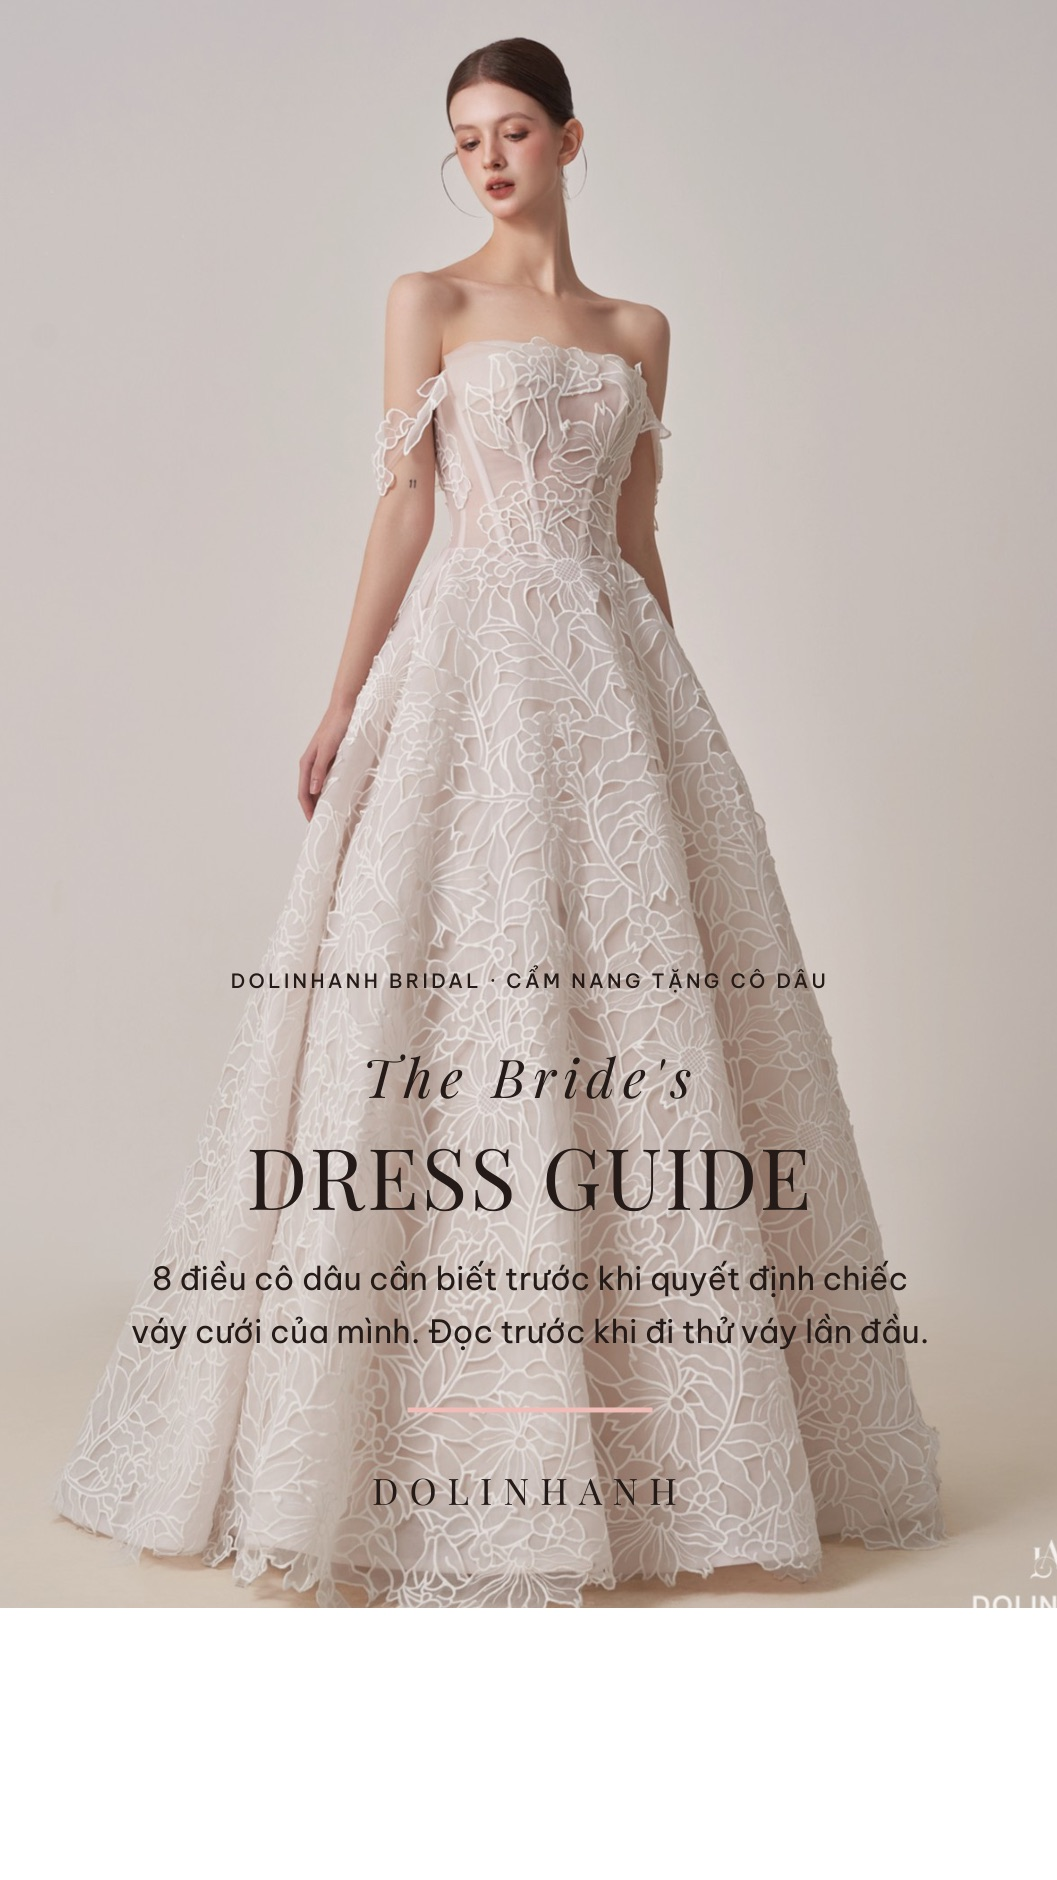
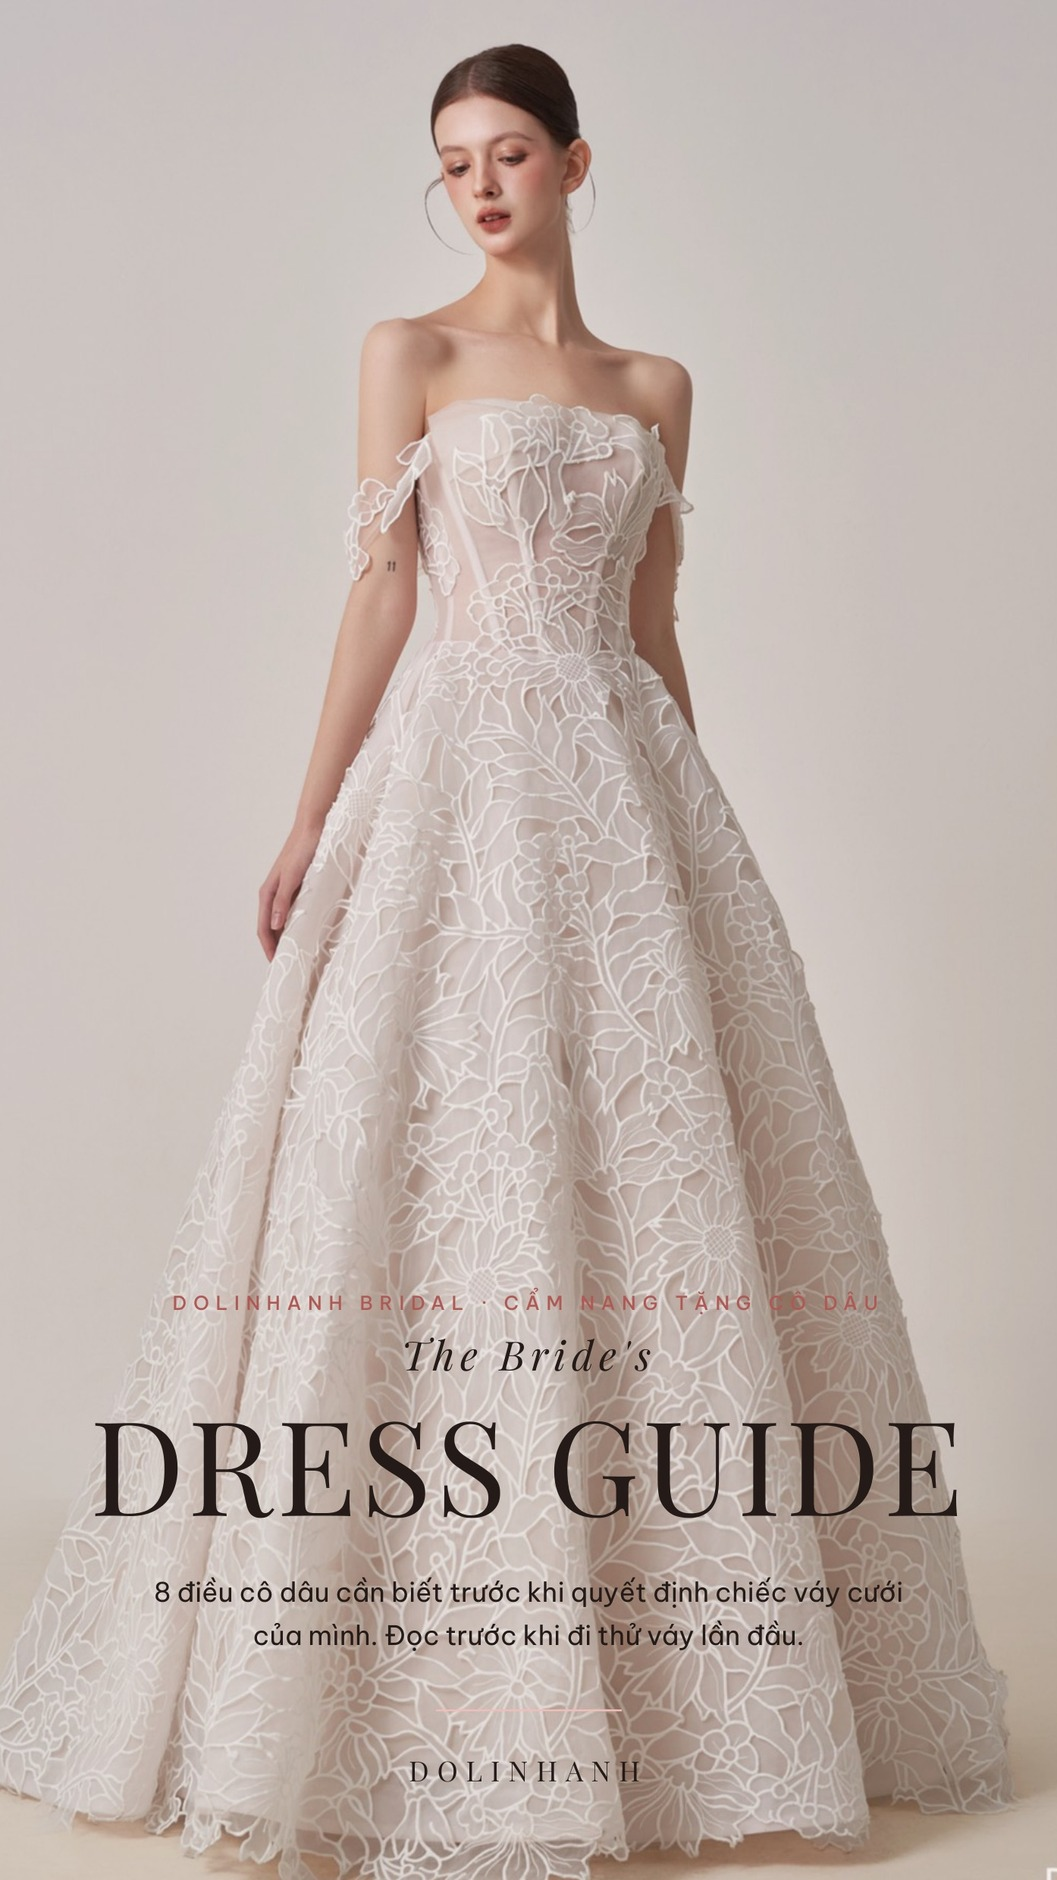
Fix mobile cover white gap and add clickable mục lục

Changed region(s): [[0.0, 0.0, 1.0, 1.0]]

diff --git a/dress-guide.html b/dress-guide.html
@@ -4,7 +4,7 @@
 <meta charset="utf-8">
 <meta name="viewport" content="width=device-width,initial-scale=1">
 <meta name="description" content="Cẩm nang tặng cô dâu: 7 điều cần biết trước khi chọn váy cưới — Dolinhanh Bridal.">
-<script>window.__ANH__=["dress-guide/t01.jpg?v=y291245", "dress-guide/t02.jpg?v=y291245", "dress-guide/t03.jpg?v=y291245", "dress-guide/t04.jpg?v=y291245", "dress-guide/t05.jpg?v=y291245", "dress-guide/t06.jpg?v=y291245", "dress-guide/t07.jpg?v=y291245", "dress-guide/t08.jpg?v=y291245", "dress-guide/t09.jpg?v=y291245", "dress-guide/t10.jpg?v=y291245", "dress-guide/t11.jpg?v=y291245", "dress-guide/t12.jpg?v=y291245", "dress-guide/t13.jpg?v=y291245", "dress-guide/t14.jpg?v=y291245", "dress-guide/t15.jpg?v=y291245", "dress-guide/t16.jpg?v=y291245", "dress-guide/t17.jpg?v=y291245", "dress-guide/t18.jpg?v=y291245", "dress-guide/t19.jpg?v=y291245", "dress-guide/t20.jpg?v=y291245", "dress-guide/t21.jpg?v=y291245", "dress-guide/t22.jpg?v=y291245", "dress-guide/t23.jpg?v=y291245", "dress-guide/t24.jpg?v=y291245", "dress-guide/t25.jpg?v=y291245", "dress-guide/t26.jpg?v=y291245", "dress-guide/t27.jpg?v=y291245"];window.__ANH_DT__=["dress-guide-dt/t001.jpg?v=y291245", "dress-guide-dt/t002.jpg?v=y291245", "dress-guide-dt/t003.jpg?v=y291245", "dress-guide-dt/t004.jpg?v=y291245", "dress-guide-dt/t005.jpg?v=y291245", "dress-guide-dt/t006.jpg?v=y291245", "dress-guide-dt/t007.jpg?v=y291245", "dress-guide-dt/t008.jpg?v=y291245", "dress-guide-dt/t009.jpg?v=y291245", "dress-guide-dt/t010.jpg?v=y291245", "dress-guide-dt/t011.jpg?v=y291245", "dress-guide-dt/t012.jpg?v=y291245", "dress-guide-dt/t013.jpg?v=y291245", "dress-guide-dt/t014.jpg?v=y291245", "dress-guide-dt/t015.jpg?v=y291245", "dress-guide-dt/t016.jpg?v=y291245", "dress-guide-dt/t017.jpg?v=y291245", "dress-guide-dt/t018.jpg?v=y291245", "dress-guide-dt/t019.jpg?v=y291245", "dress-guide-dt/t020.jpg?v=y291245", "dress-guide-dt/t021.jpg?v=y291245", "dress-guide-dt/t022.jpg?v=y291245", "dress-guide-dt/t023.jpg?v=y291245", "dress-guide-dt/t024.jpg?v=y291245", "dress-guide-dt/t025.jpg?v=y291245", "dress-guide-dt/t026.jpg?v=y291245", "dress-guide-dt/t027.jpg?v=y291245", "dress-guide-dt/t028.jpg?v=y291245", "dress-guide-dt/t029.jpg?v=y291245", "dress-guide-dt/t030.jpg?v=y291245", "dress-guide-dt/t031.jpg?v=y291245", "dress-guide-dt/t032.jpg?v=y291245", "dress-guide-dt/t033.jpg?v=y291245", "dress-guide-dt/t034.jpg?v=y291245", "dress-guide-dt/t035.jpg?v=y291245", "dress-guide-dt/t036.jpg?v=y291245", "dress-guide-dt/t037.jpg?v=y291245", "dress-guide-dt/t038.jpg?v=y291245", "dress-guide-dt/t039.jpg?v=y291245", "dress-guide-dt/t040.jpg?v=y291245", "dress-guide-dt/t041.jpg?v=y291245", "dress-guide-dt/t042.jpg?v=y291245", "dress-guide-dt/t043.jpg?v=y291245", "dress-guide-dt/t044.jpg?v=y291245", "dress-guide-dt/t045.jpg?v=y291245", "dress-guide-dt/t046.jpg?v=y291245", "dress-guide-dt/t047.jpg?v=y291245", "dress-guide-dt/t048.jpg?v=y291245", "dress-guide-dt/t049.jpg?v=y291245", "dress-guide-dt/t050.jpg?v=y291245"];window.__TI_DT__=1.777;window.__DIEM_DT__=[{"nhan": "Đọc vị bản thân", "ten": "Làm bài trắc nghiệm tại đây", "mo": "", "quiz": true, "p": 6, "x": 0.2713, "y": 0.1401, "w": 0.4323, "h": 0.0265}, {"nhan": "Chuẩn bị trước buổi thử", "ten": "Đồ lót nào mặc được?", "mo": "Nguyên tắc chung: màu nude, không quai, không gọng to, không đường viền. Bốn kiểu trong hình đều dùng được cho gần như mọi mẫu váy. Phần lớn váy cưới đã có corset nâng và mút đệm ngực khâu sẵn — nhiều cô dâu chỉ mặc quần lót nude là đủ.", "p": 10, "x": 0.213, "y": 0.2374, "w": 0.2757, "h": 0.0278, "toi": 12, "anh": "dress-guide/hs-dolot.jpg?v=y291245"}, {"nhan": "Chuẩn bị trước buổi thử", "ten": "Ngày cưới nên mang mấy đôi?", "mo": "Ba đôi là đủ cho mọi tình huống. Đế bánh mì đi trong váy xoè — tùng váy che kín dép, đứng cả buổi không mỏi chân. Cao gót cho những mẫu hở chân như đuôi cá hay xẻ tà, gót 5–7cm là vừa. Và một đôi đế thấp để trong phòng chờ, khi chân đã mỏi thì thay ra.", "p": 10, "x": 0.138, "y": 0.3438, "w": 0.7211, "h": 0.0571, "toi": 14, "anh": "dress-guide/hs-giay.jpg?v=y291245"}, {"nhan": "Chuẩn bị trước buổi thử", "ten": "Vì sao lại là 5 mẫu?", "mo": "Năm mẫu vừa đủ để so bốn dáng cơ bản và thêm một mẫu “lạ” cho biết, mà không loạn. Gửi trước danh sách cho shop để váy được treo sẵn — đỡ mất ba mươi phút đầu buổi chỉ để đi tìm váy.", "p": 10, "x": 0.5176, "y": 0.655, "w": 0.3832, "h": 0.0278}, {"nhan": "Bước tiếp theo", "ten": "Hành trình trở thành cô dâu — 99.000đ", "mo": "Tám mươi trang, bảy chương xếp thành ba lớp: hiểu mình, chuẩn bị, thực hiện. Mở đầu bằng bài trắc nghiệm tính cách cho cả hai người, rồi tới tiền bạc, hai gia đình, trọn phần chọn váy, Bride Timeline, và After the Wedding.", "lien": "https://dolinhanh-bridal.github.io/web-thu/mua-planner.html", "nutChu": "Xem thử vài trang", "p": 48, "x": 0.1372, "y": 0.7234, "w": 0.2862, "h": 0.1915, "anh": "dress-guide/hs-planner.jpg?v=y291245"}, {"nhan": "Bước tiếp theo", "ten": "Nhắn Zalo để nhận file", "mo": "Chuyển khoản xong, bạn nhắn ảnh chụp màn hình tới Zalo 035 995 0588. Dolinhanh gửi lại file PDF và đường dẫn đọc trên điện thoại ngay trong ngày.", "lien": "https://zalo.me/0359950588", "nutChu": "Mở Zalo 035 995 0588", "p": 49, "x": 0.3828, "y": 0.048, "w": 0.2156, "h": 0.0251}];window.__DIEM__=[{"nhan": "Đọc vị bản thân", "ten": "Làm bài trắc nghiệm tại đây", "mo": "", "quiz": true, "p": 5, "x": 0.2013, "y": 0.153, "w": 0.2397, "h": 0.0207}, {"nhan": "Chuẩn bị trước buổi thử", "ten": "Đồ lót nào mặc được?", "mo": "Nguyên tắc chung: màu nude, không quai, không gọng to, không đường viền. Bốn kiểu trong hình đều dùng được cho gần như mọi mẫu váy. Phần lớn váy cưới đã có corset nâng và mút đệm ngực khâu sẵn — nhiều cô dâu chỉ mặc quần lót nude là đủ.", "p": 7, "x": 0.1707, "y": 0.2032, "w": 0.1469, "h": 0.0211, "toi": 8, "anh": "dress-guide/hs-dolot.jpg?v=y291245"}, {"nhan": "Chuẩn bị trước buổi thử", "ten": "Ngày cưới nên mang mấy đôi?", "mo": "Ba đôi là đủ cho mọi tình huống. Đế bánh mì đi trong váy xoè — tùng váy che kín dép, đứng cả buổi không mỏi chân. Cao gót cho những mẫu hở chân như đuôi cá hay xẻ tà, gót 5–7cm là vừa. Và một đôi đế thấp để trong phòng chờ, khi chân đã mỏi thì thay ra.", "p": 7, "x": 0.2229, "y": 0.2616, "w": 0.4041, "h": 0.0211, "toi": 9, "anh": "dress-guide/hs-giay.jpg?v=y291245"}, {"nhan": "Chuẩn bị trước buổi thử", "ten": "Vì sao lại là 5 mẫu?", "mo": "Năm mẫu vừa đủ để so bốn dáng cơ bản và thêm một mẫu “lạ” cho biết, mà không loạn. Gửi trước danh sách cho shop để váy được treo sẵn — đỡ mất ba mươi phút đầu buổi chỉ để đi tìm váy.", "p": 7, "x": 0.333, "y": 0.4108, "w": 0.2042, "h": 0.0211}, {"nhan": "Bước tiếp theo", "ten": "Hành trình trở thành cô dâu — 99.000đ", "mo": "Tám mươi trang, bảy chương xếp thành ba lớp: hiểu mình, chuẩn bị, thực hiện. Mở đầu bằng bài trắc nghiệm tính cách cho cả hai người, rồi tới tiền bạc, hai gia đình, trọn phần chọn váy, Bride Timeline, và After the Wedding.", "lien": "https://dolinhanh-bridal.github.io/web-thu/mua-planner.html", "nutChu": "Xem thử vài trang", "p": 26, "x": 0.1248, "y": 0.8065, "w": 0.1525, "h": 0.1442, "anh": "dress-guide/hs-planner.jpg?v=y291245"}, {"nhan": "Bước tiếp theo", "ten": "Nhắn Zalo để nhận file", "mo": "Chuyển khoản xong, bạn nhắn ảnh chụp màn hình tới Zalo 035 995 0588. Dolinhanh gửi lại file PDF và đường dẫn đọc trên điện thoại ngay trong ngày.", "lien": "https://zalo.me/0359950588", "nutChu": "Mở Zalo 035 995 0588", "p": 26, "x": 0.3035, "y": 0.8923, "w": 0.1149, "h": 0.0191}];</script>
+<script>window.__ANH__=["dress-guide/t01.jpg?v=y082920", "dress-guide/t02.jpg?v=y082920", "dress-guide/t03.jpg?v=y082920", "dress-guide/t04.jpg?v=y082920", "dress-guide/t05.jpg?v=y082920", "dress-guide/t06.jpg?v=y082920", "dress-guide/t07.jpg?v=y082920", "dress-guide/t08.jpg?v=y082920", "dress-guide/t09.jpg?v=y082920", "dress-guide/t10.jpg?v=y082920", "dress-guide/t11.jpg?v=y082920", "dress-guide/t12.jpg?v=y082920", "dress-guide/t13.jpg?v=y082920", "dress-guide/t14.jpg?v=y082920", "dress-guide/t15.jpg?v=y082920", "dress-guide/t16.jpg?v=y082920", "dress-guide/t17.jpg?v=y082920", "dress-guide/t18.jpg?v=y082920", "dress-guide/t19.jpg?v=y082920", "dress-guide/t20.jpg?v=y082920", "dress-guide/t21.jpg?v=y082920", "dress-guide/t22.jpg?v=y082920", "dress-guide/t23.jpg?v=y082920", "dress-guide/t24.jpg?v=y082920", "dress-guide/t25.jpg?v=y082920", "dress-guide/t26.jpg?v=y082920", "dress-guide/t27.jpg?v=y082920"];window.__ANH_DT__=["dress-guide-dt/t001.jpg?v=y082920", "dress-guide-dt/t002.jpg?v=y082920", "dress-guide-dt/t003.jpg?v=y082920", "dress-guide-dt/t004.jpg?v=y082920", "dress-guide-dt/t005.jpg?v=y082920", "dress-guide-dt/t006.jpg?v=y082920", "dress-guide-dt/t007.jpg?v=y082920", "dress-guide-dt/t008.jpg?v=y082920", "dress-guide-dt/t009.jpg?v=y082920", "dress-guide-dt/t010.jpg?v=y082920", "dress-guide-dt/t011.jpg?v=y082920", "dress-guide-dt/t012.jpg?v=y082920", "dress-guide-dt/t013.jpg?v=y082920", "dress-guide-dt/t014.jpg?v=y082920", "dress-guide-dt/t015.jpg?v=y082920", "dress-guide-dt/t016.jpg?v=y082920", "dress-guide-dt/t017.jpg?v=y082920", "dress-guide-dt/t018.jpg?v=y082920", "dress-guide-dt/t019.jpg?v=y082920", "dress-guide-dt/t020.jpg?v=y082920", "dress-guide-dt/t021.jpg?v=y082920", "dress-guide-dt/t022.jpg?v=y082920", "dress-guide-dt/t023.jpg?v=y082920", "dress-guide-dt/t024.jpg?v=y082920", "dress-guide-dt/t025.jpg?v=y082920", "dress-guide-dt/t026.jpg?v=y082920", "dress-guide-dt/t027.jpg?v=y082920", "dress-guide-dt/t028.jpg?v=y082920", "dress-guide-dt/t029.jpg?v=y082920", "dress-guide-dt/t030.jpg?v=y082920", "dress-guide-dt/t031.jpg?v=y082920", "dress-guide-dt/t032.jpg?v=y082920", "dress-guide-dt/t033.jpg?v=y082920", "dress-guide-dt/t034.jpg?v=y082920", "dress-guide-dt/t035.jpg?v=y082920", "dress-guide-dt/t036.jpg?v=y082920", "dress-guide-dt/t037.jpg?v=y082920", "dress-guide-dt/t038.jpg?v=y082920", "dress-guide-dt/t039.jpg?v=y082920", "dress-guide-dt/t040.jpg?v=y082920", "dress-guide-dt/t041.jpg?v=y082920", "dress-guide-dt/t042.jpg?v=y082920", "dress-guide-dt/t043.jpg?v=y082920", "dress-guide-dt/t044.jpg?v=y082920", "dress-guide-dt/t045.jpg?v=y082920", "dress-guide-dt/t046.jpg?v=y082920", "dress-guide-dt/t047.jpg?v=y082920", "dress-guide-dt/t048.jpg?v=y082920", "dress-guide-dt/t049.jpg?v=y082920", "dress-guide-dt/t050.jpg?v=y082920"];window.__TI_DT__=1.777;window.__DIEM_DT__=[{"nhan": "Đọc vị bản thân", "ten": "Làm bài trắc nghiệm tại đây", "mo": "", "quiz": true, "p": 6, "x": 0.2713, "y": 0.1401, "w": 0.4323, "h": 0.0265}, {"nhan": "Chuẩn bị trước buổi thử", "ten": "Đồ lót nào mặc được?", "mo": "Nguyên tắc chung: màu nude, không quai, không gọng to, không đường viền. Bốn kiểu trong hình đều dùng được cho gần như mọi mẫu váy. Phần lớn váy cưới đã có corset nâng và mút đệm ngực khâu sẵn — nhiều cô dâu chỉ mặc quần lót nude là đủ.", "p": 10, "x": 0.213, "y": 0.2374, "w": 0.2757, "h": 0.0278, "toi": 12, "anh": "dress-guide/hs-dolot.jpg?v=y082920"}, {"nhan": "Chuẩn bị trước buổi thử", "ten": "Ngày cưới nên mang mấy đôi?", "mo": "Ba đôi là đủ cho mọi tình huống. Đế bánh mì đi trong váy xoè — tùng váy che kín dép, đứng cả buổi không mỏi chân. Cao gót cho những mẫu hở chân như đuôi cá hay xẻ tà, gót 5–7cm là vừa. Và một đôi đế thấp để trong phòng chờ, khi chân đã mỏi thì thay ra.", "p": 10, "x": 0.138, "y": 0.3438, "w": 0.7211, "h": 0.0571, "toi": 14, "anh": "dress-guide/hs-giay.jpg?v=y082920"}, {"nhan": "Chuẩn bị trước buổi thử", "ten": "Vì sao lại là 5 mẫu?", "mo": "Năm mẫu vừa đủ để so bốn dáng cơ bản và thêm một mẫu “lạ” cho biết, mà không loạn. Gửi trước danh sách cho shop để váy được treo sẵn — đỡ mất ba mươi phút đầu buổi chỉ để đi tìm váy.", "p": 10, "x": 0.5176, "y": 0.655, "w": 0.3832, "h": 0.0278}, {"nhan": "Bước tiếp theo", "ten": "Hành trình trở thành cô dâu — 99.000đ", "mo": "Tám mươi trang, bảy chương xếp thành ba lớp: hiểu mình, chuẩn bị, thực hiện. Mở đầu bằng bài trắc nghiệm tính cách cho cả hai người, rồi tới tiền bạc, hai gia đình, trọn phần chọn váy, Bride Timeline, và After the Wedding.", "lien": "https://dolinhanh-bridal.github.io/web-thu/mua-planner.html", "nutChu": "Xem thử vài trang", "p": 48, "x": 0.1372, "y": 0.7234, "w": 0.2862, "h": 0.1915, "anh": "dress-guide/hs-planner.jpg?v=y082920"}, {"nhan": "Bước tiếp theo", "ten": "Nhắn Zalo để nhận file", "mo": "Chuyển khoản xong, bạn nhắn ảnh chụp màn hình tới Zalo 035 995 0588. Dolinhanh gửi lại file PDF và đường dẫn đọc trên điện thoại ngay trong ngày.", "lien": "https://zalo.me/0359950588", "nutChu": "Mở Zalo 035 995 0588", "p": 49, "x": 0.3828, "y": 0.048, "w": 0.2156, "h": 0.0251}, {"nhan": "Mục lục", "ten": "Xem phần 01 · Đọc vị bản thân", "p": 3, "x": 0.08, "y": 0.1846, "w": 0.86, "h": 0.1064, "nhay": 5}, {"nhan": "Mục lục", "ten": "Xem phần 02 · Chuẩn bị gì trước buổi thử váy", "p": 3, "x": 0.08, "y": 0.2909, "w": 0.86, "h": 0.0745, "nhay": 10}, {"nhan": "Mục lục", "ten": "Xem phần 03 · Nên thử bao nhiêu mẫu", "p": 3, "x": 0.08, "y": 0.3655, "w": 0.86, "h": 0.1064, "nhay": 17}, {"nhan": "Mục lục", "ten": "Xem phần 04 · Form váy hợp dáng người", "p": 3, "x": 0.08, "y": 0.4718, "w": 0.86, "h": 0.0745, "nhay": 19}, {"nhan": "Mục lục", "ten": "Xem phần 05 · Chi tiết trên váy cần đặc biệt chú ý", "p": 3, "x": 0.08, "y": 0.5463, "w": 0.86, "h": 0.0745, "nhay": 34}, {"nhan": "Mục lục", "ten": "Xem phần 06 · Đánh giá chất liệu khi mặc trực tiếp", "p": 3, "x": 0.08, "y": 0.6207, "w": 0.86, "h": 0.0745, "nhay": 37}, {"nhan": "Mục lục", "ten": "Xem phần 07 · Những câu hỏi cần hỏi trước khi đặt cọc", "p": 3, "x": 0.08, "y": 0.6952, "w": 0.86, "h": 0.0745, "nhay": 40}, {"nhan": "Mục lục", "ten": "Xem phần 08 · Tránh chọn váy theo cảm xúc nhất thời", "p": 3, "x": 0.08, "y": 0.7696, "w": 0.86, "h": 0.0745, "nhay": 42}];window.__DIEM__=[{"nhan": "Đọc vị bản thân", "ten": "Làm bài trắc nghiệm tại đây", "mo": "", "quiz": true, "p": 5, "x": 0.2013, "y": 0.153, "w": 0.2397, "h": 0.0207}, {"nhan": "Chuẩn bị trước buổi thử", "ten": "Đồ lót nào mặc được?", "mo": "Nguyên tắc chung: màu nude, không quai, không gọng to, không đường viền. Bốn kiểu trong hình đều dùng được cho gần như mọi mẫu váy. Phần lớn váy cưới đã có corset nâng và mút đệm ngực khâu sẵn — nhiều cô dâu chỉ mặc quần lót nude là đủ.", "p": 7, "x": 0.1707, "y": 0.2032, "w": 0.1469, "h": 0.0211, "toi": 8, "anh": "dress-guide/hs-dolot.jpg?v=y082920"}, {"nhan": "Chuẩn bị trước buổi thử", "ten": "Ngày cưới nên mang mấy đôi?", "mo": "Ba đôi là đủ cho mọi tình huống. Đế bánh mì đi trong váy xoè — tùng váy che kín dép, đứng cả buổi không mỏi chân. Cao gót cho những mẫu hở chân như đuôi cá hay xẻ tà, gót 5–7cm là vừa. Và một đôi đế thấp để trong phòng chờ, khi chân đã mỏi thì thay ra.", "p": 7, "x": 0.2229, "y": 0.2616, "w": 0.4041, "h": 0.0211, "toi": 9, "anh": "dress-guide/hs-giay.jpg?v=y082920"}, {"nhan": "Chuẩn bị trước buổi thử", "ten": "Vì sao lại là 5 mẫu?", "mo": "Năm mẫu vừa đủ để so bốn dáng cơ bản và thêm một mẫu “lạ” cho biết, mà không loạn. Gửi trước danh sách cho shop để váy được treo sẵn — đỡ mất ba mươi phút đầu buổi chỉ để đi tìm váy.", "p": 7, "x": 0.333, "y": 0.4108, "w": 0.2042, "h": 0.0211}, {"nhan": "Bước tiếp theo", "ten": "Hành trình trở thành cô dâu — 99.000đ", "mo": "Tám mươi trang, bảy chương xếp thành ba lớp: hiểu mình, chuẩn bị, thực hiện. Mở đầu bằng bài trắc nghiệm tính cách cho cả hai người, rồi tới tiền bạc, hai gia đình, trọn phần chọn váy, Bride Timeline, và After the Wedding.", "lien": "https://dolinhanh-bridal.github.io/web-thu/mua-planner.html", "nutChu": "Xem thử vài trang", "p": 26, "x": 0.1248, "y": 0.8065, "w": 0.1525, "h": 0.1442, "anh": "dress-guide/hs-planner.jpg?v=y082920"}, {"nhan": "Bước tiếp theo", "ten": "Nhắn Zalo để nhận file", "mo": "Chuyển khoản xong, bạn nhắn ảnh chụp màn hình tới Zalo 035 995 0588. Dolinhanh gửi lại file PDF và đường dẫn đọc trên điện thoại ngay trong ngày.", "lien": "https://zalo.me/0359950588", "nutChu": "Mở Zalo 035 995 0588", "p": 26, "x": 0.3035, "y": 0.8923, "w": 0.1149, "h": 0.0191}, {"nhan": "Mục lục", "ten": "Xem phần 01 · Đọc vị bản thân", "p": 3, "x": 0.0958, "y": 0.1996, "w": 0.8367, "h": 0.0573, "nhay": 4}, {"nhan": "Mục lục", "ten": "Xem phần 02 · Chuẩn bị gì trước buổi thử váy", "p": 3, "x": 0.0958, "y": 0.2569, "w": 0.8367, "h": 0.0585, "nhay": 7}, {"nhan": "Mục lục", "ten": "Xem phần 03 · Nên thử bao nhiêu mẫu", "p": 3, "x": 0.0958, "y": 0.3153, "w": 0.8367, "h": 0.0565, "nhay": 11}, {"nhan": "Mục lục", "ten": "Xem phần 04 · Form váy hợp dáng người", "p": 3, "x": 0.0958, "y": 0.3718, "w": 0.8367, "h": 0.0585, "nhay": 12}, {"nhan": "Mục lục", "ten": "Xem phần 05 · Chi tiết trên váy cần đặc biệt chú ý", "p": 3, "x": 0.0958, "y": 0.4302, "w": 0.8367, "h": 0.0565, "nhay": 19}, {"nhan": "Mục lục", "ten": "Xem phần 06 · Đánh giá chất liệu khi mặc trực tiếp", "p": 3, "x": 0.0958, "y": 0.4867, "w": 0.8367, "h": 0.0565, "nhay": 21}, {"nhan": "Mục lục", "ten": "Xem phần 07 · Những câu hỏi cần hỏi trước khi đặt cọc", "p": 3, "x": 0.0958, "y": 0.5431, "w": 0.8367, "h": 0.0585, "nhay": 22}, {"nhan": "Mục lục", "ten": "Xem phần 08 · Tránh chọn váy theo cảm xúc nhất thời", "p": 3, "x": 0.0958, "y": 0.6016, "w": 0.8367, "h": 0.0577, "nhay": 23}];</script>
 </head>
 <body>
 <title>The Bride's Dress Guide</title>
@@ -359,7 +359,15 @@
       b.className = 'diem';
       b.style.cssText = 'left:' + (d.x*100) + '%;top:' + (d.y*100) + '%;width:' + (d.w*100) + '%;height:' + (d.h*100) + '%';
       b.setAttribute('aria-label', d.ten);
-      b.addEventListener('click', function(e){ e.stopPropagation(); moHop(d); });
+      b.addEventListener('click', function(e){
+        e.stopPropagation();
+        if (d.nhay){
+          if (mot) p = d.nhay - 1; else vi = Math.floor(d.nhay / 2);
+          ve();
+          return;
+        }
+        moHop(d);
+      });
       el.appendChild(b);
     });
   }
